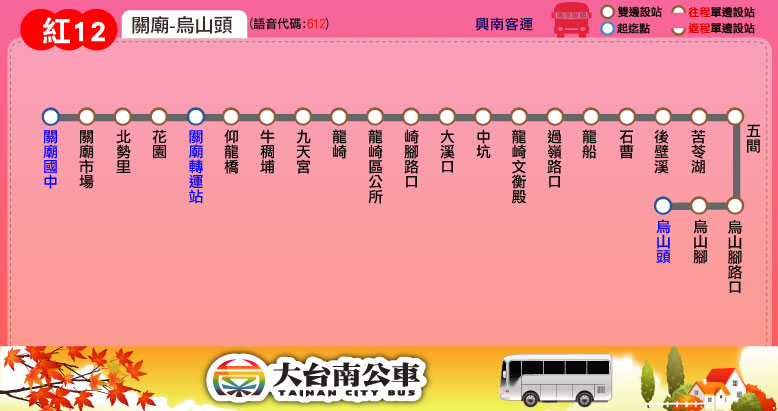
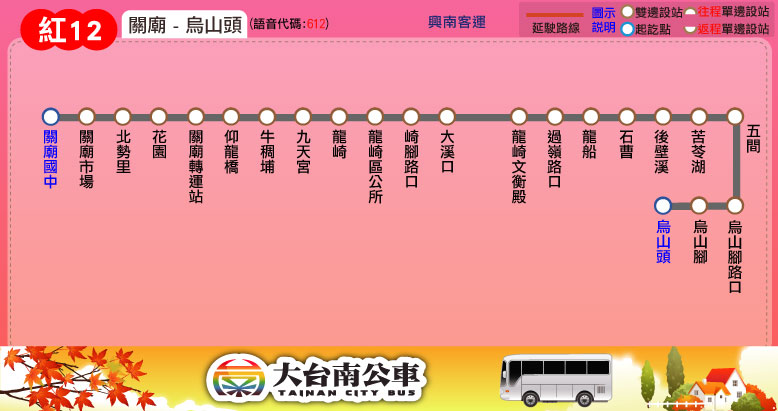
更新時刻表：藍25(增佳里-篤加里區間車4往返)； 更新站位：紅11、紅12(撤除「中坑」站)

diff --git a/route/fare_and_time/blue_25.js b/route/fare_and_time/blue_25.js
@@ -20,8 +20,10 @@ blue_25_fare = [
 // format = [time at the start stop] or
 // [time, other] or
 // [time, start_stop, end_stop, other]
-blue_25_main_stop_name = ["佳里","多摩市<br />社區","篤加里","七股","聖母廟<br />(安中路)","成大<br />安南校區","中央<br />軸帶公園","工業、<br />本田路口","南臺灣<br />創新園區"];
-blue_25_main_stop_time_consume = [0, 5, 11, 17, 34, 38, 43, 46, 50];
-blue_25_important_stop = [0, 8, 9]; // 佳里, 九塊厝, 黑面琵鷺賞鳥亭
-blue_25_time_go = [["13:20"],["14:40"],["17:20"]];
-blue_25_time_return = [["14:10"],["15:40"],["18:10"]];
+blue_25_main_stop_name = ["佳里站","多摩市<br />社區","篤加里","七股","聖母廟<br />(安中路)","土城子","成大<br />安南校區","中央<br />軸帶公園","工業、<br />本田路口","南臺灣<br />創新園區"];
+blue_25_main_stop_time_consume = [0, 5, 10, 17, 34, 35, 38, 43, 46, 50];
+blue_25_important_stop = [0, 5, 9]; // 佳里站, 土城子, 南臺灣創新園區
+var Jiali = 0;
+var Dujia_Vil = 2;
+blue_25_time_go = [["07:00",Jiali,Dujia_Vil],["10:00",Jiali,Dujia_Vil],["13:20"],["14:40"],["17:20"]];
+blue_25_time_return = [["07:15",Dujia_Vil,Jiali],["10:15",Dujia_Vil,Jiali],["14:10"],["15:40"],["18:10"]];

diff --git a/route/fare_and_time/red_11.js b/route/fare_and_time/red_11.js
@@ -3,7 +3,7 @@ red_11_interval_stop = [
 ["關廟國中","關廟市場"], // 關廟
 ["北勢里","花園","關廟轉運站","仰龍橋","牛稠埔","新光國小","代天府(新光里)","桂花巷(新光里)","南寮街(新光里)"], // 花園
 ["龍崎國中","龍崎","龍崎區公所","崎腳路口","大溪口"], // 龍崎
-["中坑","龍崎文衡殿"], // 中坑
+["龍崎文衡殿"], // 中坑
 ["過嶺路口","龍船"], // 龍船
 ["石曹","後壁溪","後壁溪橋","順興瓦斯行","龍崎農會分會","苦苓湖"], // 苦苓湖
 ["龍船國小","瓦厝(牛埔)","牛埔橋","頂牛埔","牛埔","牛埔製麵廠","牛埔農塘"] // 牛埔農塘

diff --git a/route/fare_and_time/red_12.js b/route/fare_and_time/red_12.js
@@ -3,7 +3,7 @@ red_12_interval_stop = [
 ["關廟國中","關廟市場"], // 關廟
 ["北勢里","花園","關廟轉運站","仰龍橋","牛稠埔","九天宮"], // 花園
 ["龍崎","龍崎區公所","崎腳路口","大溪口"], // 龍崎
-["中坑","龍崎文衡殿"], // 中坑
+["龍崎文衡殿"], // 中坑
 ["過嶺路口","龍船"], // 龍船
 ["石曹","後壁溪","苦苓湖"], // 苦苓湖
 ["五間","烏山腳路口","烏山腳","烏山頭"] // 烏山頭
